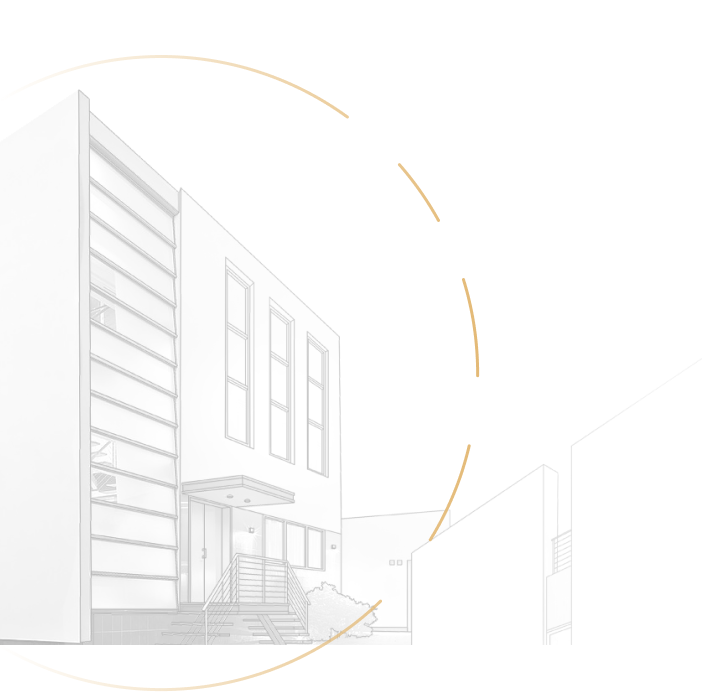
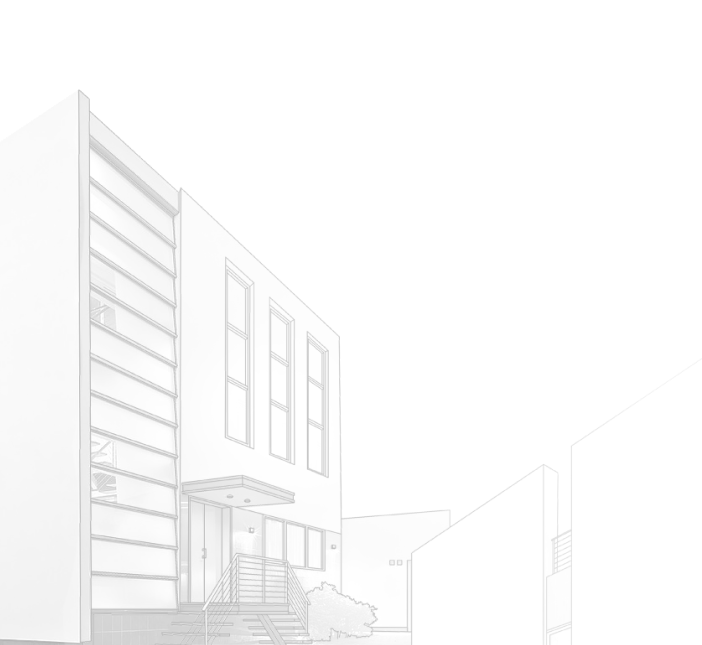
fix: add circle elements

diff --git a/css/style.css b/css/style.css
@@ -884,18 +884,33 @@ input[type="radio"] {
 
 .features {
   display: flex;
+  justify-content: space-between;
   margin-top: 120px;
   min-height: 726px;
   overflow: hidden;
 }
 
 .features__circle {
+  position: relative;
+  width: 36%;
+  height: 46vw;
   border-radius: 50%;
   background: linear-gradient(#fff, #fff) padding-box, linear-gradient(to right, #fff 0%, #fff 20%, #fff 20%, #E3B873 100%) border-box;
   border: 3px solid transparent;
 }
 
+.features__background {
+  margin-top: -55px;
+  width: 125%;
+  height: 700px;
+  position: relative;
+  background-image: url("../assets/images/features-background.png");
+  background-repeat: no-repeat;
+}
+
 .features__list {
+  width: 15%;
+  position: absolute;
   margin: 0;
   padding: 0;
   list-style: none;
@@ -904,7 +919,7 @@ input[type="radio"] {
 }
 
 .features__item {
-  position: relative;
+  position: absolute;
   font-family: "FuturaMedium", Arial, sans-serif;
   font-size: 18px;
   line-height: 1.2;
@@ -936,7 +951,8 @@ input[type="radio"] {
 }
 
 .first-item {
-  margin-bottom: 75px;
+  top: -40px;
+  left: -215px;
 }
 
 .first-item::before {
@@ -973,7 +989,7 @@ input[type="radio"] {
 }
 
 .features__discount {
-  margin: 0 auto;
+  margin-right: 5%;
   margin-top: 100px;
   width: 35%;
 }

diff --git a/sass/blocks/_features.scss b/sass/blocks/_features.scss
@@ -1,14 +1,15 @@
 .features {
   display: flex;
+  justify-content: space-between;
   margin-top: 120px;
   min-height: 726px;
   overflow: hidden;
 }
 
 .features__circle {
-  //width: 50%;
-  //background-image: url("../assets/images/features-background.png");
-  //background-repeat: no-repeat;
+  position: relative;
+  width: 36%;
+  height: 46vw;
   border-radius: 50%;
   background:
     linear-gradient(#fff,#fff) padding-box,
@@ -16,14 +17,25 @@
   border: 3px solid transparent;
 }
 
+.features__background {
+  margin-top: -55px;
+  width: 125%;
+  height: 700px;
+  position: relative;
+  background-image: url("../assets/images/features-background.png");
+  background-repeat: no-repeat;
+}
+
 .features__list {
+  width: 15%;
+  position: absolute;
   @include reset;
   margin-top: 120px;
   margin-left: 50%;
 }
 
 .features__item {
-  position: relative;
+  position: absolute;
   font-family: "FuturaMedium", Arial, sans-serif;
   @include font(18px);
   color: $black-color;
@@ -50,7 +62,9 @@
 }
 
 .first-item{
-  margin-bottom: 75px;
+ top: -40px;
+ left: -215px;
+
 
   &::before{
     content: "01";
@@ -87,7 +101,7 @@
 }
 
 .features__discount {
-  margin: 0 auto;
+  margin-right: 5%;
   margin-top: 100px;
   width: 35%;
 }

diff --git a/index.html b/index.html
@@ -190,13 +190,15 @@
     </section>
     <section class="features">
       <div class="features__circle">
+        <div class="features__background"></div>
+      </div>
         <ul class="features__list">
           <li class="features__item first-item">Our specialist will arrive for measurements per day contact, or appoint a date convenient for you</li>
           <li class="features__item second-item">Free metering</li>
           <li class="features__item third-item">Free consultation</li>
           <li class="features__item four-item">Get a cost estimate and<br> the timing of your future repairs</li>
         </ul>
-      </div>
+
       <div class="features__discount">
         <div class="features__wrapper">
         <form class="features__form registr__form" action="#" method="post">
